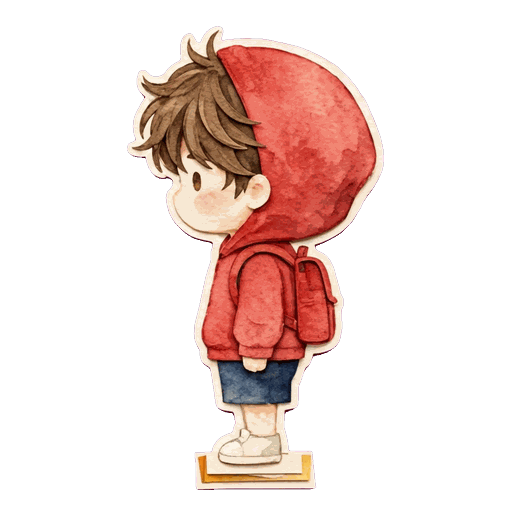
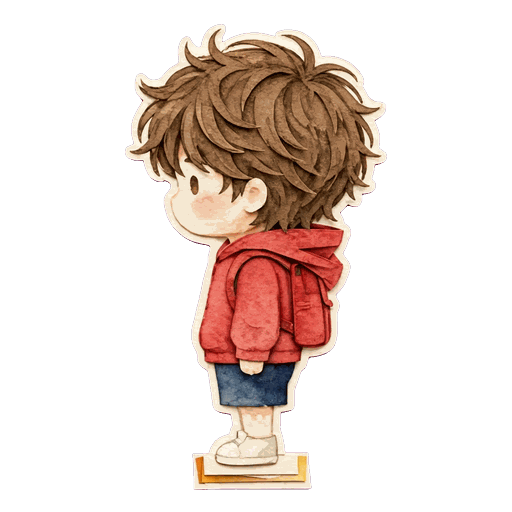
Han nhìn ngang: hình mới hạ mũ trùm (PC-6b) (#121)
- Thay player_han_left.png: cùng chiều cao, cùng chân đế với hướng trước / sau
- Bàn tay cầm ô theo hình mới; mã phiên bản hình mới để máy tải bản mới
- sw v74

Claude-Session: https://claude.ai/code/session_01AHzGepJt93aQaJT6t7Vsc8

Changed region(s): [[0.25, 0.0312, 0.75, 0.9688]]

diff --git a/game/sw.js b/game/sw.js
@@ -1,7 +1,7 @@
 /* Chạy offline: giữ toàn bộ code game, dữ liệu và mọi hình trong assets/.
    Hình tải qua assets/<tên>?v=<mã nội dung> (data/asset_rev.js): mỗi lần cập nhật app chỉ tải hình mới hoặc hình đã thay,
    hình không đổi chép lại từ bản trong máy. Tệp giọng đọc được giữ lại khi đã nghe một lần. */
-var VERSION = 'thegioi-v73';
+var VERSION = 'thegioi-v74';
 // giọng đọc: tên tệp đặt theo nội dung câu nên không bao giờ đổi, giữ riêng một kho để cập nhật app không phải tải lại
 var AUDIO = 'connectlife-audio-v2';
 var CORE = [

diff --git a/game/data/hands.js b/game/data/hands.js
@@ -52,7 +52,7 @@ G.HANDS = {
     'person_walter_left.png': [51.7, 76.2, '#fedcca', 4.7],
     'person_walter_up.png': [65.9, 75.1, '#fcdcc8', 4.7],
     'player_han_down.png': [66.5, 65.5, '#f6dcc8', 4.7],
-    'player_han_left.png': [47.5, 69, '#f6dcc8', 5.1],
+    'player_han_left.png': [48.5, 72.5, '#f6dcc8', 4.7],
     'player_han_up.png': [66, 65, '#f6dcc8', 4.9],
     'player_minh_down.png': [70.8, 74.5, '#feddc3', 4.7],
     'player_minh_left.png': [50.8, 77.2, '#feddc4', 4.7],

diff --git a/game/data/asset_rev.js b/game/data/asset_rev.js
@@ -215,7 +215,7 @@ G.ASSET_REV = {"badge_1.webp":"4cd4eec0",
 "plane.png":"40ea1fde",
 "player_han_down.png":"cd163a62",
 "player_han_happy.png":"3cd6c9c4",
-"player_han_left.png":"55d06356",
+"player_han_left.png":"cd26bf0c",
 "player_han_think.png":"1fe247f5",
 "player_han_up.png":"22bc0679",
 "player_han_wow.png":"2c65038f",
